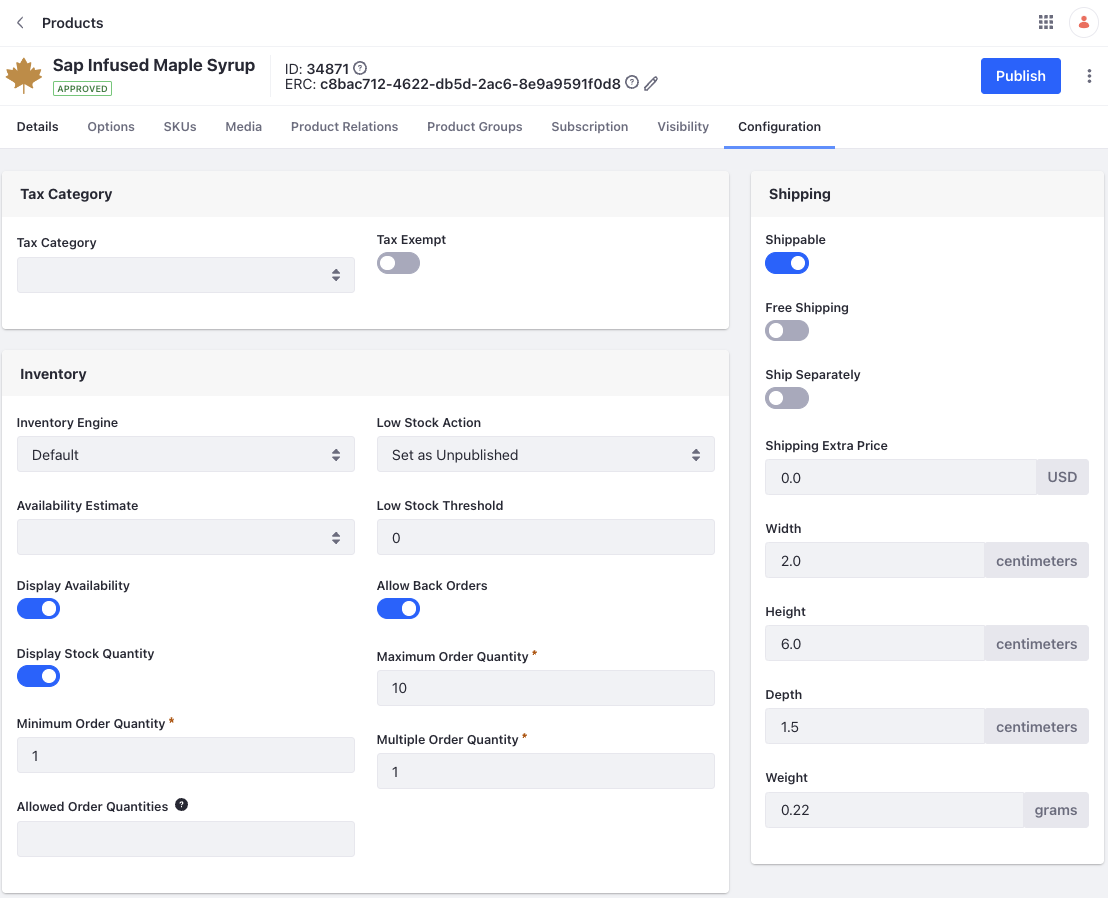
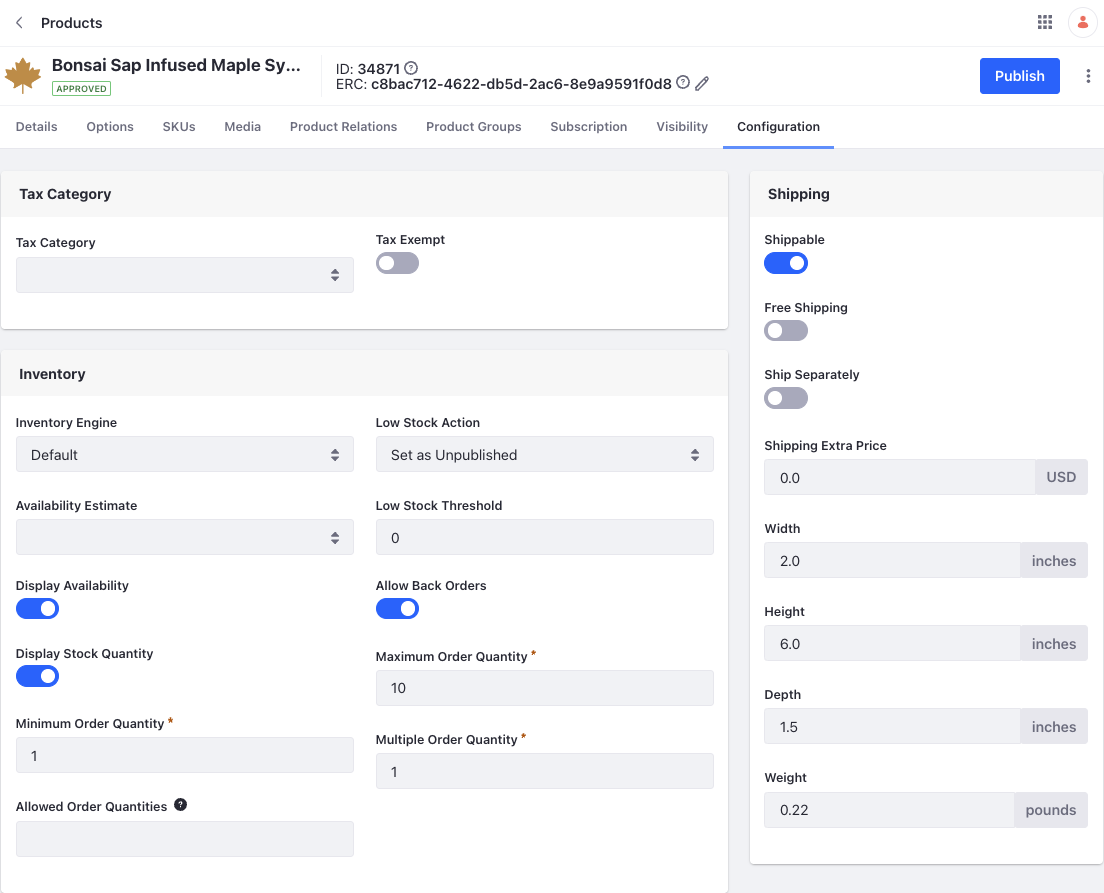
LRDOCS-12074 missed JR feedback item

diff --git a/docs/courses/latest/en/commerce-architect/setting-up-and-creating-products/creating-products.md b/docs/courses/latest/en/commerce-architect/setting-up-and-creating-products/creating-products.md
@@ -5,13 +5,13 @@ uuid: ab3a83f6-1401-48a2-818b-62f3e8dc0ef7
 
 Delectable Bonsai offers a wide range of flavoured syrups and swag to their customers. With Liferay’s out-of-the-box product management capabilities, you can create different kinds of products through a unified interface. Liferay also supports importing products from third party systems. Damian now needs your help to create a few products in the catalog. 
 
-Let’s start off by creating a simple product in the product catalog. We’ll create Delectable Bonsai’s signature product, sap infused maple syrup. 
+Let’s start off by creating a simple product in the product catalog. We’ll create Delectable Bonsai’s signature product, bonsai sap infused maple syrup. 
 
 1. Open the *Global Menu* (![Global Menu](../../images/icon-applications-menu.png)) and navigate to *Commerce* &rarr; *Products*.
 
 1. Click *Add* (![Add](../../images/icon-add.png)) and enter the following:
 
-   **Name:** Sap Infused Maple Syrup
+   **Name:** Bonsai Sap Infused Maple Syrup
 
    **Catalog:** DB Product Catalog
 
